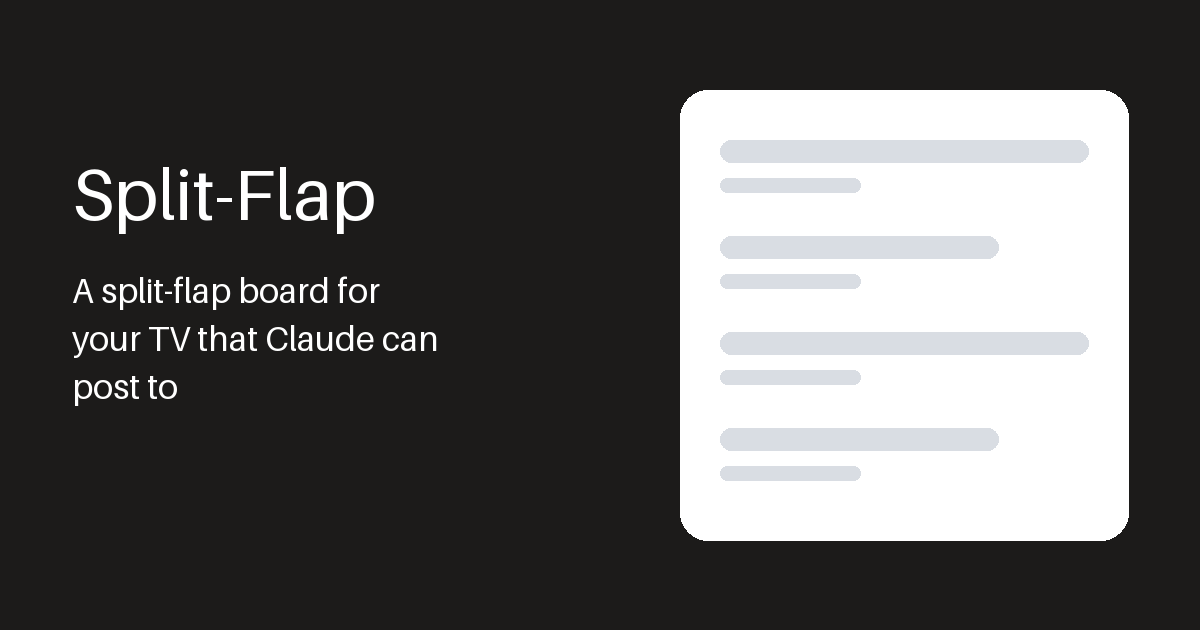
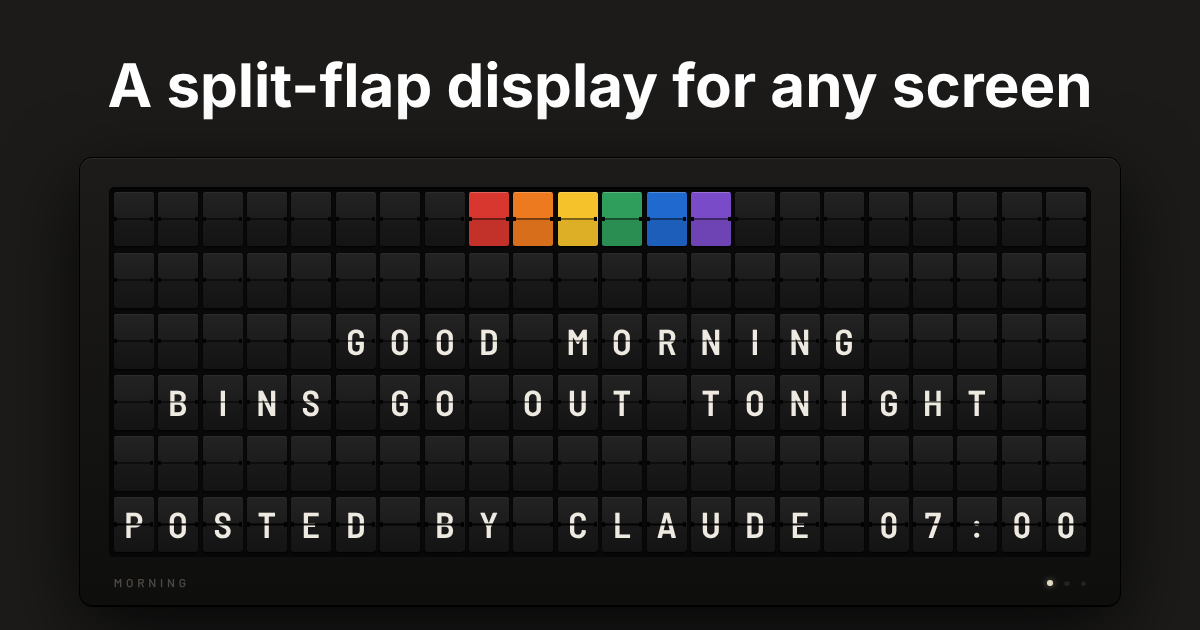
RAS-69: Draw the share card from the board itself (#16)
The unfurl showed the template's placeholder, a sketch of blank rows and
the old "for your TV" line. bin/shoot-share-card photographs the real
hero (the promise above the board) at 1200 by 630, and the app's
description drops TV for the "any screen" wording.

Claude-Session: https://claude.ai/code/session_01YZzddbpddyZ71dv2C4KM47

diff --git a/apps/pwa/conf.py b/apps/pwa/conf.py
@@ -7,7 +7,7 @@ drew the icons in ``static/icons/`` from the same name and colour.
 
 APP_NAME = "Split-Flap"
 SHORT_NAME = APP_NAME[:12]
-DESCRIPTION = "A split-flap board for your TV that Claude can post to"
+DESCRIPTION = "A split-flap display for any screen that Claude can post to"
 THEME_COLOUR = "#1C1B1A"
 BACKGROUND_COLOUR = "#ffffff"
 
